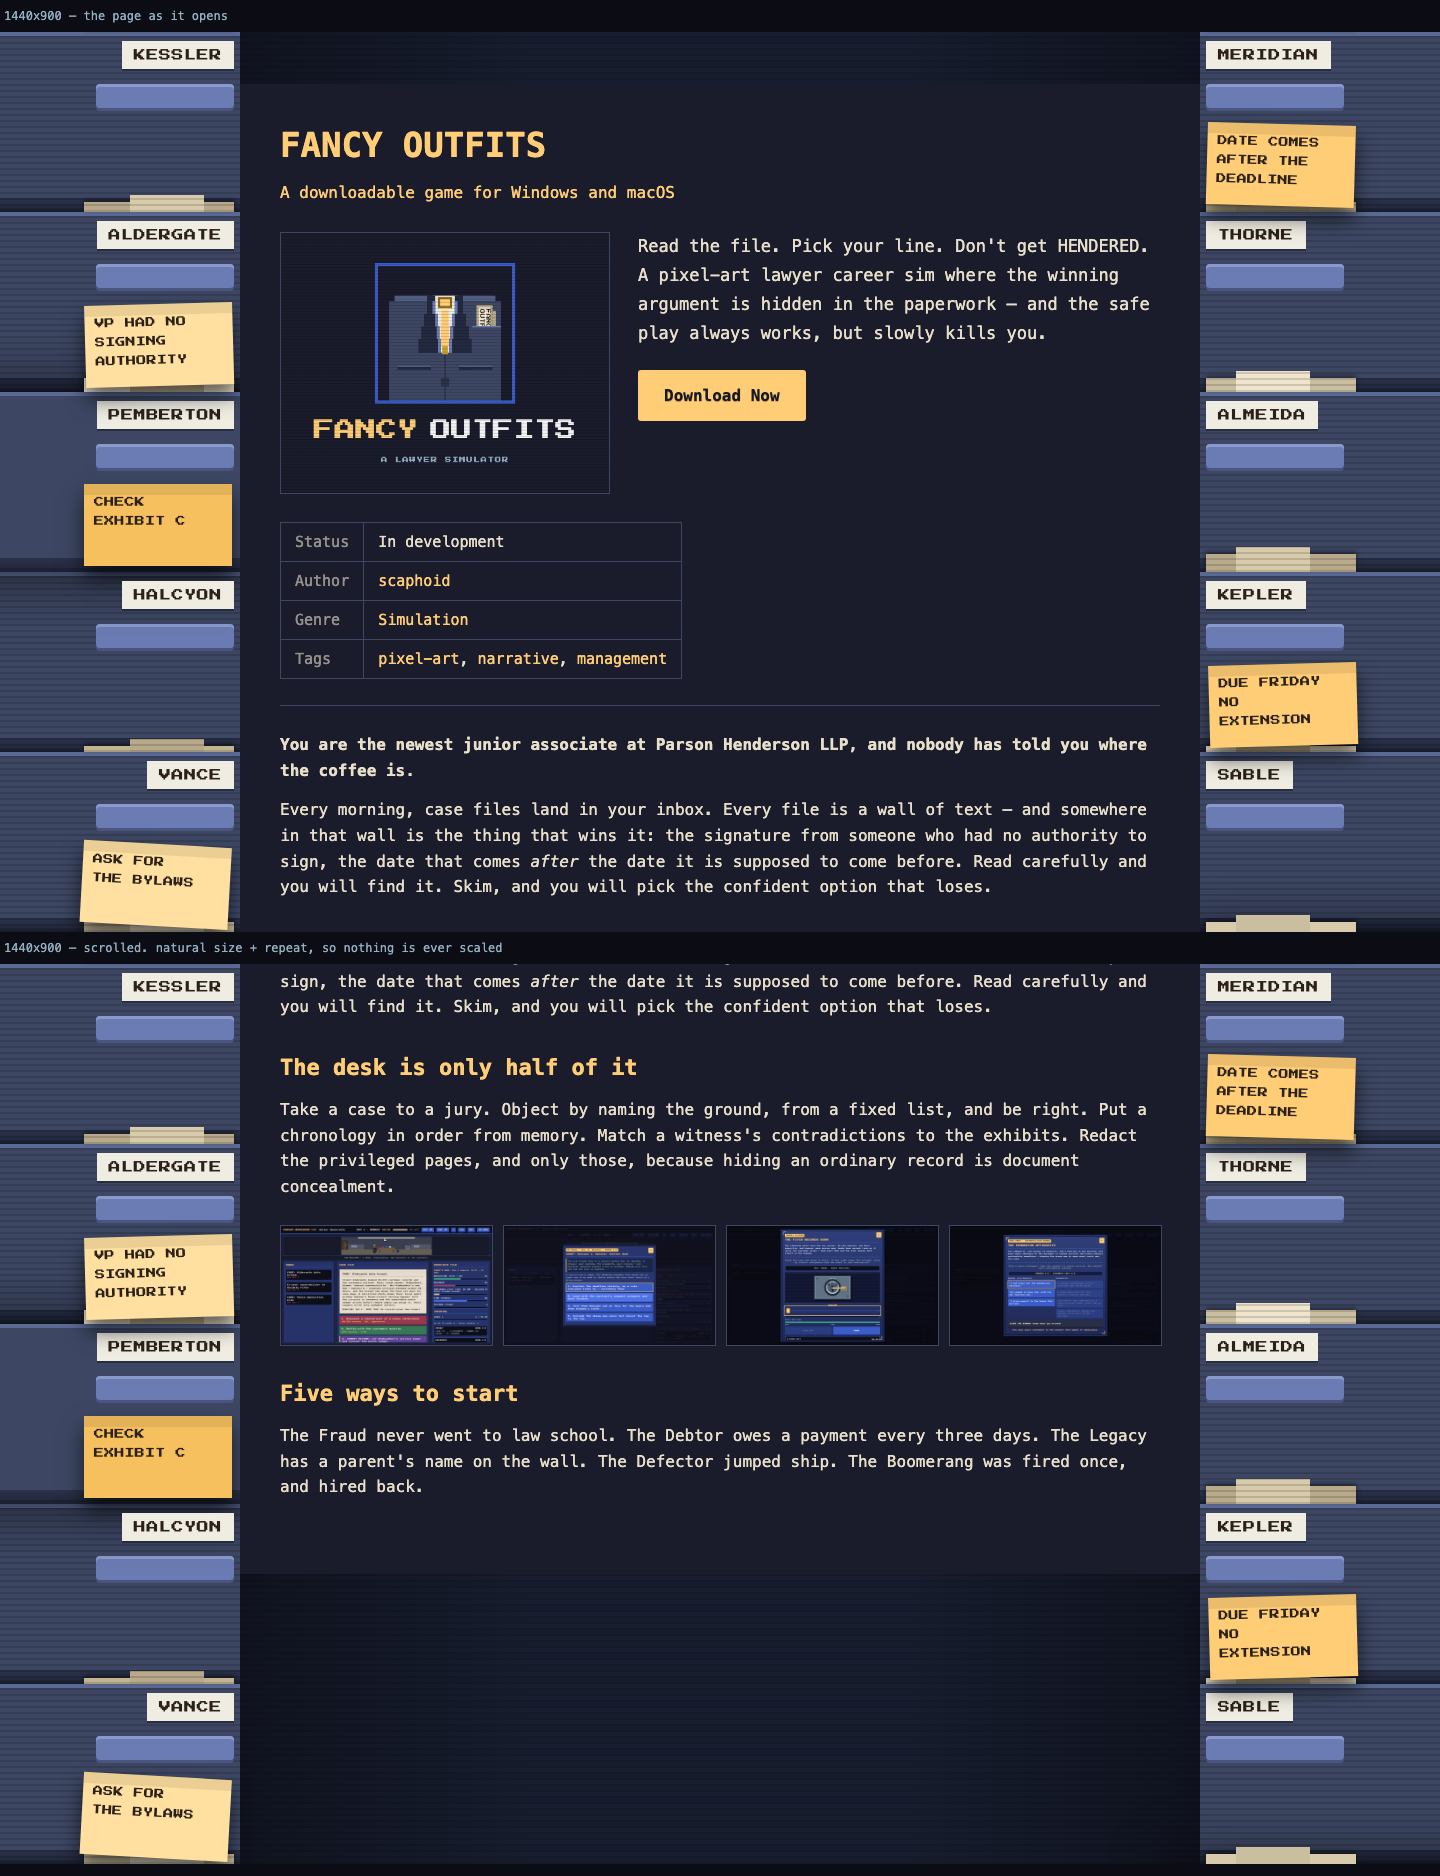
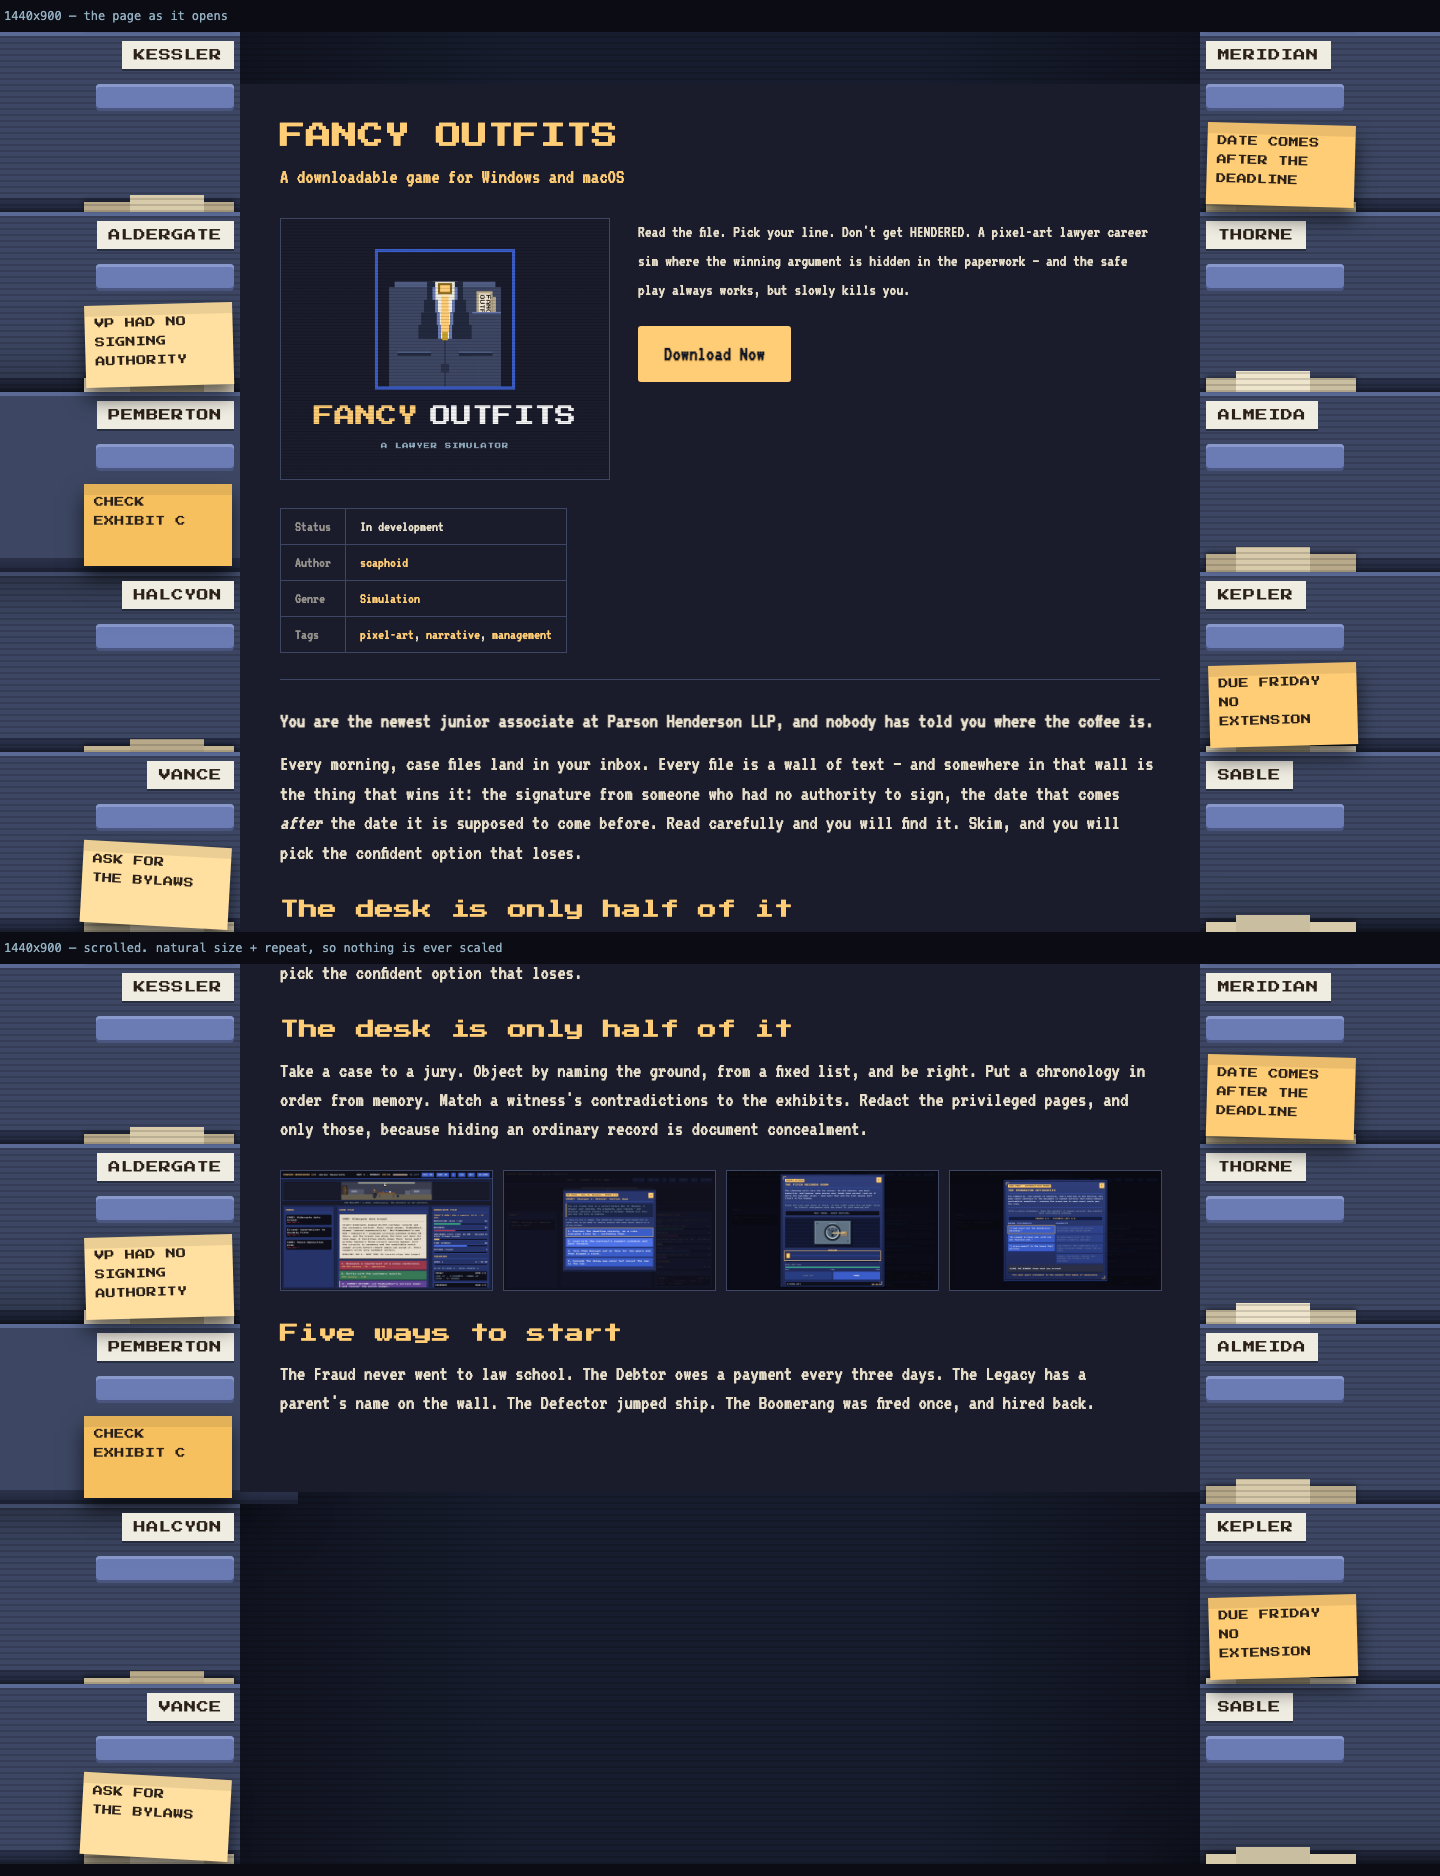
store: the game's own face on the headings, VT323 underneath
itch's font picker takes any Google Fonts family name typed into the box, so the
choice is the whole library rather than a list — and Press Start 2P, the game's
own face, is in it. scripts/store-fonts.mjs sets the same paragraph five ways;
the top row is Press Start 2P as body text, which is there to show why it cannot
be that, and why 04b_03 failed for the same reason. Both are display faces.

Header font is its own field in the panel, so the answer is both: Press Start 2P
on headings, exactly the game's face, and VT323 underneath — pixel as well, but
narrow and tall, so the description still reads at speed.

Changed region(s): [[0.1875, 0.2783, 0.8125, 0.8038], [0.1875, 0.0618, 0.7812, 0.2473]]

diff --git a/assets/store/ITCH.md b/assets/store/ITCH.md
@@ -165,27 +165,27 @@ page of any length.
 
 ## The font
 
-itch's Font dropdown is not two entries — it is Lato plus a long list of Google
-Fonts, which the page then loads from `fonts.googleapis.com`. Across the 100:
+itch's picker is not a dropdown of a few faces — it takes **any Google Fonts family
+name typed into the box**, so the choice is the whole library. Which means the
+game's own face is available: **Press Start 2P is on Google Fonts.**
 
-| Font | pages |
+It is still wrong for body text. `node scripts/store-fonts.mjs` sets the same
+paragraph five ways and the top row shows why: at paragraph length Press Start 2P
+is a wall, and 04b_03 fails the same way for the same reason. Both are display
+faces doing a body face's job.
+
+The pairing the panel makes possible, because **Header font is its own field**:
+
+| Field | Value |
 | --- | --- |
-| Lato (default) | 44 |
-| **Anonymous Pro** | 7 |
-| sans-serif | 7 |
-| Quicksand | 3 |
-| 04b_03 (pixel) | 3 |
-| everything else | 1–2 each |
+| Font | **VT323** |
+| Header font | **Press Start 2P** |
+| Size | Large |
 
-**Use Anonymous Pro.** It is monospaced, which is what the game's own Press Start
-2P is, so the page keeps the game's rhythm — but it has real lowercase and normal
-word shapes, so a 600-word description still reads at speed. It is also the most
-common deliberate choice on the site's best pages, which means it reads as *a game
-page* rather than as a default one. 04b_03 is the pixel-purist answer and it is
-why the pixel version felt hard to read: it is a 5x7 face doing a job it was never
-meant to do.
-
-If more pixel flavour is wanted later, **DotGothic16** is the readable middle.
+Headings get the game's exact face. The body gets VT323, which is pixel too but
+narrow and tall, so a 600-word description still reads at speed. If readability
+matters more than the pixel look, **Anonymous Pro** is the swap — it is the most
+common deliberate font choice across the top 100 pages.
 
 ## Headings as post-its
 
